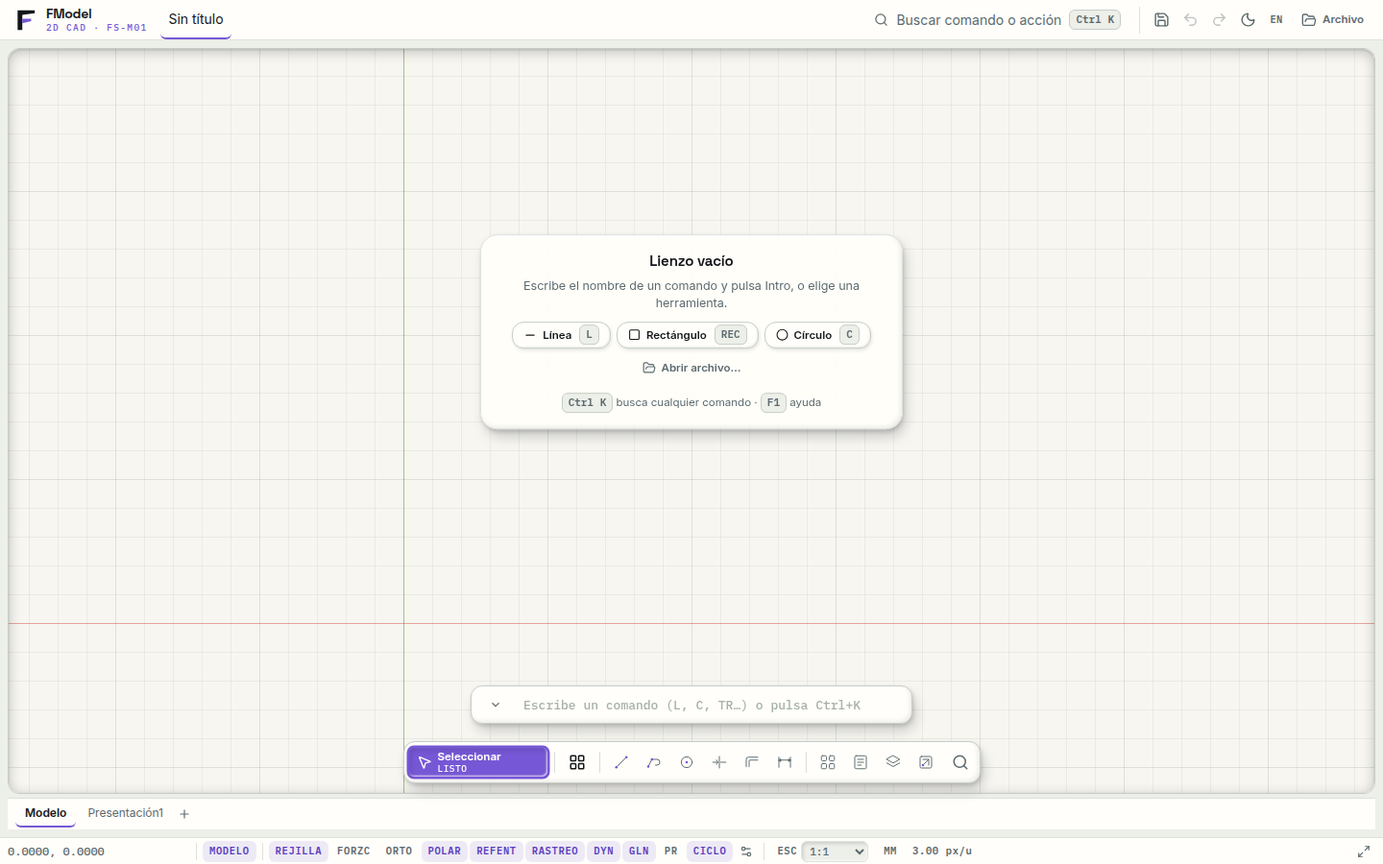
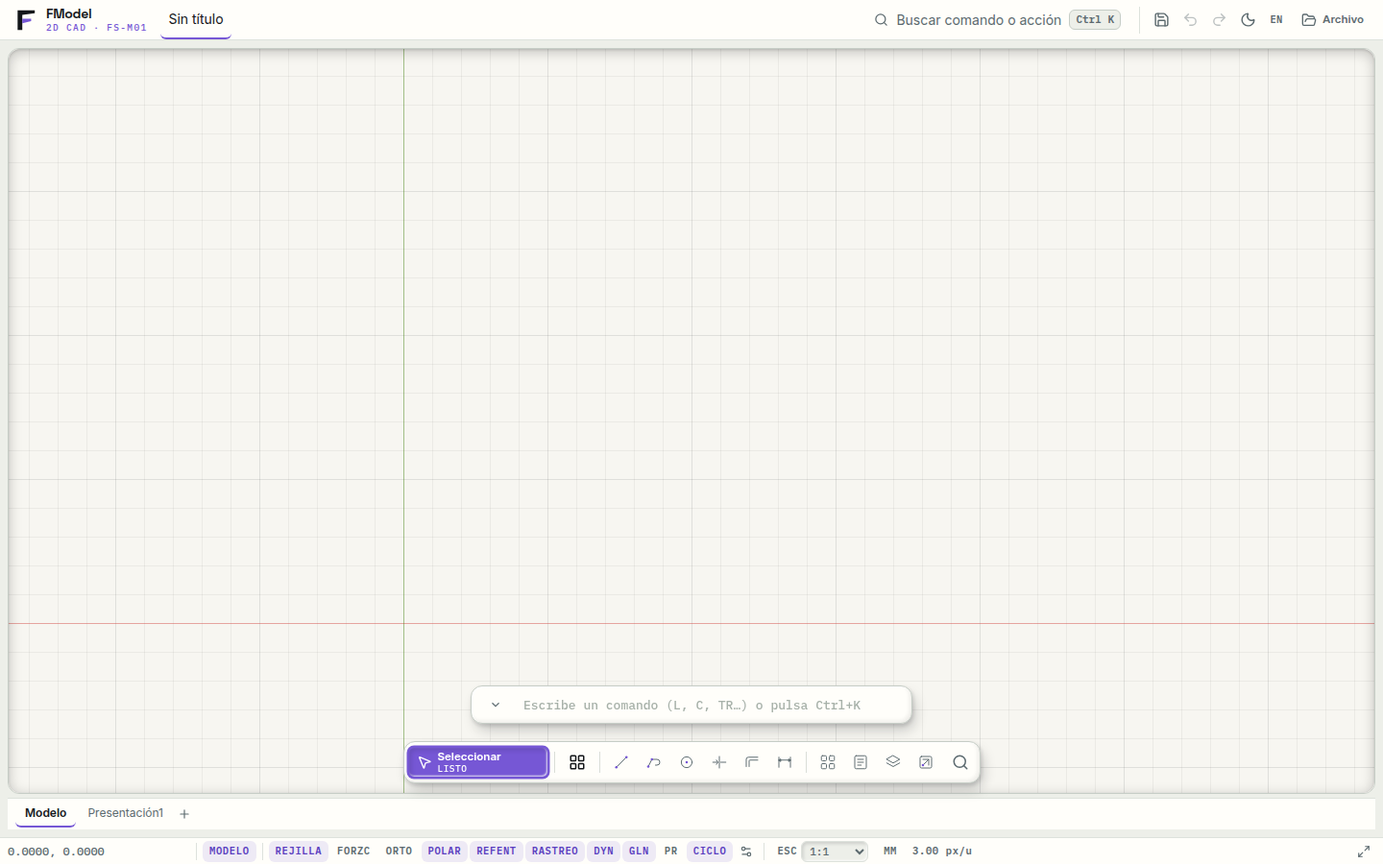
feat(ui): retirar la tarjeta «Lienzo vacío» de la mesa (UI-008)
La tarjeta tapaba el centro del lienzo y estorbaba, sobre todo en el
teléfono. Se elimina EmptyCanvasHint, sus estilos y las pruebas que
dependían de ella; capturas del brandbook regeneradas.

Claude-Session: https://claude.ai/code/session_01GeibqF8v8jU8AmHyVxC3aG

Changed region(s): [[0.3438, 0.28, 0.6562, 0.5289]]

diff --git a/docs/brandbook/index.html b/docs/brandbook/index.html
@@ -103,7 +103,7 @@ body{background:#EDEFE9}
 <span style="font-family: 'IBM Plex Mono', monospace; font-size: 11px; letter-spacing: .14em; text-transform: uppercase; color: #5C6A6F">05 / 7 · Interfaces</span></div>
 <h1 style="margin: 0; font-family: 'Space Grotesk', sans-serif; font-weight: 600; font-size: 64px; line-height: 1; letter-spacing: -.035em">Las mesas, tal como son</h1>
 <p style="margin: 0; max-width: 920px; font-size: 19px; line-height: 1.55; color: #3F4A50">Capturas de klkmoraa.github.io/FModel en Día y Noche, en escritorio, teléfono y tableta.</p>
-</header><section style="display: flex; flex-direction: column; gap: 16px"><div style="display: flex; align-items: baseline; gap: 16px"><span style="font-family: 'IBM Plex Mono', monospace; font-size: 11px; letter-spacing: .14em; text-transform: uppercase; color: #5C6A6F">Inicio</span><h2 style="margin: 0; font-family: 'Space Grotesk', sans-serif; font-weight: 600; font-size: 30px; letter-spacing: -.02em">Barra de navegación</h2></div><div style="display: grid; grid-template-columns: repeat(2, minmax(0, 1fr)); gap: 20px"><figure style="margin: 0; display: flex; flex-direction: column; gap: 8px"><img src="assets/home-dia.png" alt="Barra de navegación · Día" style="display: block; width: 100%; height: 170px; object-fit: cover; object-position: top; border-radius: 12px; box-shadow: 0 0 0 1px #C6CDC6, 2px 6px 16px -4px rgb(20 23 26 / 22%)"><figcaption style="font-family: 'IBM Plex Mono', monospace; font-size: 11px; letter-spacing: .12em; text-transform: uppercase; color: #5C6A6F">Día</figcaption></figure><figure style="margin: 0; display: flex; flex-direction: column; gap: 8px"><img src="assets/home-noche.png" alt="Barra de navegación · Noche" style="display: block; width: 100%; height: 170px; object-fit: cover; object-position: top; border-radius: 12px; box-shadow: 0 0 0 1px #C6CDC6, 2px 6px 16px -4px rgb(20 23 26 / 22%)"><figcaption style="font-family: 'IBM Plex Mono', monospace; font-size: 11px; letter-spacing: .12em; text-transform: uppercase; color: #5C6A6F">Noche</figcaption></figure></div><ul style="margin: 0; padding-left: 18px; display: grid; grid-template-columns: repeat(2, minmax(0, 1fr)); gap: 6px 40px; color: #3F4A50"><li style="font-size: 14px; line-height: 1.5">Marca + «FModel 2D CAD» en mono morado.</li><li style="font-size: 14px; line-height: 1.5">Navegación en píldora: Inicio, Dibujos, Plantillas, Biblioteca, Importar.</li><li style="font-size: 14px; line-height: 1.5">Búsqueda con atajo «/»; tema, idioma y primaria «Abrir lienzo».</li><li style="font-size: 14px; line-height: 1.5">Capturas regeneradas con el Inicio ya pintado (UI-005): la espera es la carga de la plantilla destacada.</li></ul></section><section style="display: flex; flex-direction: column; gap: 16px"><div style="display: flex; align-items: baseline; gap: 16px"><span style="font-family: 'IBM Plex Mono', monospace; font-size: 11px; letter-spacing: .14em; text-transform: uppercase; color: #5C6A6F">FS-M01</span><h2 style="margin: 0; font-family: 'Space Grotesk', sans-serif; font-weight: 600; font-size: 30px; letter-spacing: -.02em">Mesa de dibujo</h2></div><div style="display: grid; grid-template-columns: repeat(2, minmax(0, 1fr)); gap: 20px"><figure style="margin: 0; display: flex; flex-direction: column; gap: 8px"><img src="assets/mesa-dia.png" alt="Mesa de dibujo · Día" style="display: block; width: 100%; aspect-ratio: 1440 / 900; border-radius: 12px; box-shadow: 0 0 0 1px #C6CDC6, 2px 6px 16px -4px rgb(20 23 26 / 22%)"><figcaption style="font-family: 'IBM Plex Mono', monospace; font-size: 11px; letter-spacing: .12em; text-transform: uppercase; color: #5C6A6F">Día</figcaption></figure><figure style="margin: 0; display: flex; flex-direction: column; gap: 8px"><img src="assets/mesa-noche.png" alt="Mesa de dibujo · Noche" style="display: block; width: 100%; aspect-ratio: 1440 / 900; border-radius: 12px; box-shadow: 0 0 0 1px #C6CDC6, 2px 6px 16px -4px rgb(20 23 26 / 22%)"><figcaption style="font-family: 'IBM Plex Mono', monospace; font-size: 11px; letter-spacing: .12em; text-transform: uppercase; color: #5C6A6F">Noche</figcaption></figure></div><ul style="margin: 0; padding-left: 18px; display: grid; grid-template-columns: repeat(2, minmax(0, 1fr)); gap: 6px 40px; color: #3F4A50"><li style="font-size: 14px; line-height: 1.5">Barra superior plana: marca, pestaña del dibujo subrayada en morado, búsqueda Ctrl K, guardar, deshacer, rehacer, tema, idioma (muestra el destino) y Archivo.</li><li style="font-size: 14px; line-height: 1.5">Lienzo enmarcado con rejilla y ejes; línea de comando flotante sobre la barra de herramientas. Con el lienzo vacío, una tarjeta explica cómo empezar y desaparece con el primer objeto.</li><li style="font-size: 14px; line-height: 1.5">Barra flotante: Seleccionar (LISTO) + dibujo, edición, anotación, capas y búsqueda.</li><li style="font-size: 14px; line-height: 1.5">Pestañas Modelo / Presentación y barra de estado con modos tipo CAD.</li></ul></section><section style="display: flex; flex-direction: column; gap: 16px"><div style="display: flex; align-items: baseline; gap: 16px"><span style="font-family: 'IBM Plex Mono', monospace; font-size: 11px; letter-spacing: .14em; text-transform: uppercase; color: #5C6A6F">UI-006</span><h2 style="margin: 0; font-family: 'Space Grotesk', sans-serif; font-weight: 600; font-size: 30px; letter-spacing: -.02em">Teléfono y tableta</h2></div><div style="display: flex; gap: 28px; align-items: flex-start"><figure style="margin: 0; display: flex; flex-direction: column; gap: 8px; align-items: flex-start"><img src="assets/movil-dia.png" alt="Teléfono · Día · comando activo" style="display: block; height: 460px; width: auto; max-width: 100%; border-radius: 12px; box-shadow: 0 0 0 1px #C6CDC6, 2px 6px 16px -4px rgb(20 23 26 / 22%)"><figcaption style="font-family: 'IBM Plex Mono', monospace; font-size: 11px; letter-spacing: .12em; text-transform: uppercase; color: #5C6A6F">Teléfono · Día · comando</figcaption></figure><figure style="margin: 0; display: flex; flex-direction: column; gap: 8px; align-items: flex-start"><img src="assets/movil-noche.png" alt="Teléfono · Noche · selección" style="display: block; height: 460px; width: auto; max-width: 100%; border-radius: 12px; box-shadow: 0 0 0 1px #C6CDC6, 2px 6px 16px -4px rgb(20 23 26 / 22%)"><figcaption style="font-family: 'IBM Plex Mono', monospace; font-size: 11px; letter-spacing: .12em; text-transform: uppercase; color: #5C6A6F">Teléfono · Noche · selección</figcaption></figure><figure style="margin: 0; display: flex; flex-direction: column; gap: 8px; align-items: flex-start"><img src="assets/tableta-dia.png" alt="Tableta · Día · comando activo" style="display: block; height: 460px; width: auto; max-width: 100%; border-radius: 12px; box-shadow: 0 0 0 1px #C6CDC6, 2px 6px 16px -4px rgb(20 23 26 / 22%)"><figcaption style="font-family: 'IBM Plex Mono', monospace; font-size: 11px; letter-spacing: .12em; text-transform: uppercase; color: #5C6A6F">Tableta · Día</figcaption></figure></div><ul style="margin: 0; padding-left: 18px; display: grid; grid-template-columns: repeat(2, minmax(0, 1fr)); gap: 6px 40px; color: #3F4A50"><li style="font-size: 14px; line-height: 1.5">Teléfono (≤ 640 px o táctil de poca altura): la mesa de escritorio en pequeño. Lienzo a sangre, barra superior plana con guardar, deshacer, rehacer y menú «⋯».</li><li style="font-size: 14px; line-height: 1.5">Dock flotante de arcilla, el mismo material que en escritorio: herramientas, favoritos que se deslizan, precisión (con el número de modos activos) y paneles.</li><li style="font-size: 14px; line-height: 1.5">Con un comando activo, una tarjeta sobre el dock hace de línea de comando: orden, solicitud, opciones, coordenadas, Escribir, Cancelar y Aceptar (primario morado). Con selección, acciones rápidas.</li><li style="font-size: 14px; line-height: 1.5">Paneles, precisión, menú y biblioteca de herramientas son hojas inferiores con asidero, nombre y Cerrar. El teléfono se usa en vertical: girado, pide volver a vertical (UI-007); quien siga en horizontal tiene tarjeta y dock lado a lado.</li><li style="font-size: 14px; line-height: 1.5">Tableta: la mesa de escritorio completa con objetivos de 42 px, zoom táctil a la izquierda y Aceptar junto a Cancelar en el dock.</li><li style="font-size: 14px; line-height: 1.5">Los modos de la barra de estado y de la hoja de precisión salen de una sola lista (src/ui/precisionModes.ts): mismas siglas, descripciones y atajos.</li></ul></section><section style="display: flex; flex-direction: column; gap: 16px"><div style="display: flex; align-items: baseline; gap: 16px"><span style="font-family: 'IBM Plex Mono', monospace; font-size: 11px; letter-spacing: .14em; text-transform: uppercase; color: #5C6A6F">Consistencia</span><h2 style="margin: 0; font-family: 'Space Grotesk', sans-serif; font-weight: 600; font-size: 30px; letter-spacing: -.02em">Qué revisar</h2></div><div style="display: flex; flex-direction: column; border: 1px solid #DDE2DC; border-radius: 6px; background: #FFFEFA"><div style="display: grid; grid-template-columns: 180px minmax(0, 1fr) minmax(0, 1fr); gap: 20px; padding: 12px 18px; border-bottom: 1px solid #DDE2DC; font-family: 'IBM Plex Mono', monospace; font-size: 10.5px; letter-spacing: .12em; text-transform: uppercase; color: #5C6A6F"><span>Tema</span><span>Hoy</span><span>Regla</span></div><div style="display: grid; grid-template-columns: 180px minmax(0, 1fr) minmax(0, 1fr); gap: 20px; padding: 12px 18px; border-bottom: 1px solid #EDEFE9; font-size: 14px; line-height: 1.45"><strong style="font-weight: 600">Cinta</strong><span style="color: #5C6A6F">Token de 92 px retirado: la mesa no tiene cinta</span><span>Si vuelve, entra al sistema con su medida.</span></div><div style="display: grid; grid-template-columns: 180px minmax(0, 1fr) minmax(0, 1fr); gap: 20px; padding: 12px 18px; border-bottom: 1px solid #EDEFE9; font-size: 14px; line-height: 1.45"><strong style="font-weight: 600">Primaria</strong><span style="color: #5C6A6F">Inicio y diálogos («Abrir lienzo», «Listo», «Siguiente»)</span><span>Correcto: la mesa CAD se maneja con comandos; el morado marca la acción principal de cada superficie.</span></div><div style="display: grid; grid-template-columns: 180px minmax(0, 1fr) minmax(0, 1fr); gap: 20px; padding: 12px 18px; border-bottom: 1px solid #EDEFE9; font-size: 14px; line-height: 1.45"><strong style="font-weight: 600">Modos activos</strong><span style="color: #5C6A6F">Fondo morado 14 % + texto morado</span><span>Mismo patrón que los filtros activos del global.</span></div><div style="display: grid; grid-template-columns: 180px minmax(0, 1fr) minmax(0, 1fr); gap: 20px; padding: 12px 18px; border-bottom: 1px solid #EDEFE9; font-size: 14px; line-height: 1.45"><strong style="font-weight: 600">Bienvenida</strong><span style="color: #5C6A6F">Diálogo de 5 pasos al abrir la mesa</span><span>Corregido (UI-004): «Siguiente» es primario morado y «Omitir» es fantasma.</span></div><div style="display: grid; grid-template-columns: 180px minmax(0, 1fr) minmax(0, 1fr); gap: 20px; padding: 12px 18px; border-bottom: 1px solid #EDEFE9; font-size: 14px; line-height: 1.45"><strong style="font-weight: 600">Botones</strong><span style="color: #5C6A6F">Planos; el primario era negro (UI-004)</span><span>Secundario elevado, primario morado, peligro con canto y punto rojos, fantasma sólo en barras densas.</span></div><div style="display: grid; grid-template-columns: 180px minmax(0, 1fr) minmax(0, 1fr); gap: 20px; padding: 12px 18px; border-bottom: 1px solid #EDEFE9; font-size: 14px; line-height: 1.45"><strong style="font-weight: 600">Campos y segmentado</strong><span style="color: #5C6A6F">Planos; pestañas con btn--accent (UI-004)</span><span>Campo hundido con anillo morado al enfocar; segmentado con pista hundida y opción activa elevada.</span></div></div></section>
+</header><section style="display: flex; flex-direction: column; gap: 16px"><div style="display: flex; align-items: baseline; gap: 16px"><span style="font-family: 'IBM Plex Mono', monospace; font-size: 11px; letter-spacing: .14em; text-transform: uppercase; color: #5C6A6F">Inicio</span><h2 style="margin: 0; font-family: 'Space Grotesk', sans-serif; font-weight: 600; font-size: 30px; letter-spacing: -.02em">Barra de navegación</h2></div><div style="display: grid; grid-template-columns: repeat(2, minmax(0, 1fr)); gap: 20px"><figure style="margin: 0; display: flex; flex-direction: column; gap: 8px"><img src="assets/home-dia.png" alt="Barra de navegación · Día" style="display: block; width: 100%; height: 170px; object-fit: cover; object-position: top; border-radius: 12px; box-shadow: 0 0 0 1px #C6CDC6, 2px 6px 16px -4px rgb(20 23 26 / 22%)"><figcaption style="font-family: 'IBM Plex Mono', monospace; font-size: 11px; letter-spacing: .12em; text-transform: uppercase; color: #5C6A6F">Día</figcaption></figure><figure style="margin: 0; display: flex; flex-direction: column; gap: 8px"><img src="assets/home-noche.png" alt="Barra de navegación · Noche" style="display: block; width: 100%; height: 170px; object-fit: cover; object-position: top; border-radius: 12px; box-shadow: 0 0 0 1px #C6CDC6, 2px 6px 16px -4px rgb(20 23 26 / 22%)"><figcaption style="font-family: 'IBM Plex Mono', monospace; font-size: 11px; letter-spacing: .12em; text-transform: uppercase; color: #5C6A6F">Noche</figcaption></figure></div><ul style="margin: 0; padding-left: 18px; display: grid; grid-template-columns: repeat(2, minmax(0, 1fr)); gap: 6px 40px; color: #3F4A50"><li style="font-size: 14px; line-height: 1.5">Marca + «FModel 2D CAD» en mono morado.</li><li style="font-size: 14px; line-height: 1.5">Navegación en píldora: Inicio, Dibujos, Plantillas, Biblioteca, Importar.</li><li style="font-size: 14px; line-height: 1.5">Búsqueda con atajo «/»; tema, idioma y primaria «Abrir lienzo».</li><li style="font-size: 14px; line-height: 1.5">Capturas regeneradas con el Inicio ya pintado (UI-005): la espera es la carga de la plantilla destacada.</li></ul></section><section style="display: flex; flex-direction: column; gap: 16px"><div style="display: flex; align-items: baseline; gap: 16px"><span style="font-family: 'IBM Plex Mono', monospace; font-size: 11px; letter-spacing: .14em; text-transform: uppercase; color: #5C6A6F">FS-M01</span><h2 style="margin: 0; font-family: 'Space Grotesk', sans-serif; font-weight: 600; font-size: 30px; letter-spacing: -.02em">Mesa de dibujo</h2></div><div style="display: grid; grid-template-columns: repeat(2, minmax(0, 1fr)); gap: 20px"><figure style="margin: 0; display: flex; flex-direction: column; gap: 8px"><img src="assets/mesa-dia.png" alt="Mesa de dibujo · Día" style="display: block; width: 100%; aspect-ratio: 1440 / 900; border-radius: 12px; box-shadow: 0 0 0 1px #C6CDC6, 2px 6px 16px -4px rgb(20 23 26 / 22%)"><figcaption style="font-family: 'IBM Plex Mono', monospace; font-size: 11px; letter-spacing: .12em; text-transform: uppercase; color: #5C6A6F">Día</figcaption></figure><figure style="margin: 0; display: flex; flex-direction: column; gap: 8px"><img src="assets/mesa-noche.png" alt="Mesa de dibujo · Noche" style="display: block; width: 100%; aspect-ratio: 1440 / 900; border-radius: 12px; box-shadow: 0 0 0 1px #C6CDC6, 2px 6px 16px -4px rgb(20 23 26 / 22%)"><figcaption style="font-family: 'IBM Plex Mono', monospace; font-size: 11px; letter-spacing: .12em; text-transform: uppercase; color: #5C6A6F">Noche</figcaption></figure></div><ul style="margin: 0; padding-left: 18px; display: grid; grid-template-columns: repeat(2, minmax(0, 1fr)); gap: 6px 40px; color: #3F4A50"><li style="font-size: 14px; line-height: 1.5">Barra superior plana: marca, pestaña del dibujo subrayada en morado, búsqueda Ctrl K, guardar, deshacer, rehacer, tema, idioma (muestra el destino) y Archivo.</li><li style="font-size: 14px; line-height: 1.5">Lienzo enmarcado con rejilla y ejes; línea de comando flotante sobre la barra de herramientas.</li><li style="font-size: 14px; line-height: 1.5">Barra flotante: Seleccionar (LISTO) + dibujo, edición, anotación, capas y búsqueda.</li><li style="font-size: 14px; line-height: 1.5">Pestañas Modelo / Presentación y barra de estado con modos tipo CAD.</li></ul></section><section style="display: flex; flex-direction: column; gap: 16px"><div style="display: flex; align-items: baseline; gap: 16px"><span style="font-family: 'IBM Plex Mono', monospace; font-size: 11px; letter-spacing: .14em; text-transform: uppercase; color: #5C6A6F">UI-006</span><h2 style="margin: 0; font-family: 'Space Grotesk', sans-serif; font-weight: 600; font-size: 30px; letter-spacing: -.02em">Teléfono y tableta</h2></div><div style="display: flex; gap: 28px; align-items: flex-start"><figure style="margin: 0; display: flex; flex-direction: column; gap: 8px; align-items: flex-start"><img src="assets/movil-dia.png" alt="Teléfono · Día · comando activo" style="display: block; height: 460px; width: auto; max-width: 100%; border-radius: 12px; box-shadow: 0 0 0 1px #C6CDC6, 2px 6px 16px -4px rgb(20 23 26 / 22%)"><figcaption style="font-family: 'IBM Plex Mono', monospace; font-size: 11px; letter-spacing: .12em; text-transform: uppercase; color: #5C6A6F">Teléfono · Día · comando</figcaption></figure><figure style="margin: 0; display: flex; flex-direction: column; gap: 8px; align-items: flex-start"><img src="assets/movil-noche.png" alt="Teléfono · Noche · selección" style="display: block; height: 460px; width: auto; max-width: 100%; border-radius: 12px; box-shadow: 0 0 0 1px #C6CDC6, 2px 6px 16px -4px rgb(20 23 26 / 22%)"><figcaption style="font-family: 'IBM Plex Mono', monospace; font-size: 11px; letter-spacing: .12em; text-transform: uppercase; color: #5C6A6F">Teléfono · Noche · selección</figcaption></figure><figure style="margin: 0; display: flex; flex-direction: column; gap: 8px; align-items: flex-start"><img src="assets/tableta-dia.png" alt="Tableta · Día · comando activo" style="display: block; height: 460px; width: auto; max-width: 100%; border-radius: 12px; box-shadow: 0 0 0 1px #C6CDC6, 2px 6px 16px -4px rgb(20 23 26 / 22%)"><figcaption style="font-family: 'IBM Plex Mono', monospace; font-size: 11px; letter-spacing: .12em; text-transform: uppercase; color: #5C6A6F">Tableta · Día</figcaption></figure></div><ul style="margin: 0; padding-left: 18px; display: grid; grid-template-columns: repeat(2, minmax(0, 1fr)); gap: 6px 40px; color: #3F4A50"><li style="font-size: 14px; line-height: 1.5">Teléfono (≤ 640 px o táctil de poca altura): la mesa de escritorio en pequeño. Lienzo a sangre, barra superior plana con guardar, deshacer, rehacer y menú «⋯».</li><li style="font-size: 14px; line-height: 1.5">Dock flotante de arcilla, el mismo material que en escritorio: herramientas, favoritos que se deslizan, precisión (con el número de modos activos) y paneles.</li><li style="font-size: 14px; line-height: 1.5">Con un comando activo, una tarjeta sobre el dock hace de línea de comando: orden, solicitud, opciones, coordenadas, Escribir, Cancelar y Aceptar (primario morado). Con selección, acciones rápidas.</li><li style="font-size: 14px; line-height: 1.5">Paneles, precisión, menú y biblioteca de herramientas son hojas inferiores con asidero, nombre y Cerrar. El teléfono se usa en vertical: girado, pide volver a vertical (UI-007); quien siga en horizontal tiene tarjeta y dock lado a lado.</li><li style="font-size: 14px; line-height: 1.5">Tableta: la mesa de escritorio completa con objetivos de 42 px, zoom táctil a la izquierda y Aceptar junto a Cancelar en el dock.</li><li style="font-size: 14px; line-height: 1.5">Los modos de la barra de estado y de la hoja de precisión salen de una sola lista (src/ui/precisionModes.ts): mismas siglas, descripciones y atajos.</li></ul></section><section style="display: flex; flex-direction: column; gap: 16px"><div style="display: flex; align-items: baseline; gap: 16px"><span style="font-family: 'IBM Plex Mono', monospace; font-size: 11px; letter-spacing: .14em; text-transform: uppercase; color: #5C6A6F">Consistencia</span><h2 style="margin: 0; font-family: 'Space Grotesk', sans-serif; font-weight: 600; font-size: 30px; letter-spacing: -.02em">Qué revisar</h2></div><div style="display: flex; flex-direction: column; border: 1px solid #DDE2DC; border-radius: 6px; background: #FFFEFA"><div style="display: grid; grid-template-columns: 180px minmax(0, 1fr) minmax(0, 1fr); gap: 20px; padding: 12px 18px; border-bottom: 1px solid #DDE2DC; font-family: 'IBM Plex Mono', monospace; font-size: 10.5px; letter-spacing: .12em; text-transform: uppercase; color: #5C6A6F"><span>Tema</span><span>Hoy</span><span>Regla</span></div><div style="display: grid; grid-template-columns: 180px minmax(0, 1fr) minmax(0, 1fr); gap: 20px; padding: 12px 18px; border-bottom: 1px solid #EDEFE9; font-size: 14px; line-height: 1.45"><strong style="font-weight: 600">Cinta</strong><span style="color: #5C6A6F">Token de 92 px retirado: la mesa no tiene cinta</span><span>Si vuelve, entra al sistema con su medida.</span></div><div style="display: grid; grid-template-columns: 180px minmax(0, 1fr) minmax(0, 1fr); gap: 20px; padding: 12px 18px; border-bottom: 1px solid #EDEFE9; font-size: 14px; line-height: 1.45"><strong style="font-weight: 600">Primaria</strong><span style="color: #5C6A6F">Inicio y diálogos («Abrir lienzo», «Listo», «Siguiente»)</span><span>Correcto: la mesa CAD se maneja con comandos; el morado marca la acción principal de cada superficie.</span></div><div style="display: grid; grid-template-columns: 180px minmax(0, 1fr) minmax(0, 1fr); gap: 20px; padding: 12px 18px; border-bottom: 1px solid #EDEFE9; font-size: 14px; line-height: 1.45"><strong style="font-weight: 600">Modos activos</strong><span style="color: #5C6A6F">Fondo morado 14 % + texto morado</span><span>Mismo patrón que los filtros activos del global.</span></div><div style="display: grid; grid-template-columns: 180px minmax(0, 1fr) minmax(0, 1fr); gap: 20px; padding: 12px 18px; border-bottom: 1px solid #EDEFE9; font-size: 14px; line-height: 1.45"><strong style="font-weight: 600">Bienvenida</strong><span style="color: #5C6A6F">Diálogo de 5 pasos al abrir la mesa</span><span>Corregido (UI-004): «Siguiente» es primario morado y «Omitir» es fantasma.</span></div><div style="display: grid; grid-template-columns: 180px minmax(0, 1fr) minmax(0, 1fr); gap: 20px; padding: 12px 18px; border-bottom: 1px solid #EDEFE9; font-size: 14px; line-height: 1.45"><strong style="font-weight: 600">Botones</strong><span style="color: #5C6A6F">Planos; el primario era negro (UI-004)</span><span>Secundario elevado, primario morado, peligro con canto y punto rojos, fantasma sólo en barras densas.</span></div><div style="display: grid; grid-template-columns: 180px minmax(0, 1fr) minmax(0, 1fr); gap: 20px; padding: 12px 18px; border-bottom: 1px solid #EDEFE9; font-size: 14px; line-height: 1.45"><strong style="font-weight: 600">Campos y segmentado</strong><span style="color: #5C6A6F">Planos; pestañas con btn--accent (UI-004)</span><span>Campo hundido con anillo morado al enfocar; segmentado con pista hundida y opción activa elevada.</span></div></div></section>
 </div>
 </section>
 <section class="board" id="herramientas" aria-label="Herramientas">

diff --git a/src/styles/app.css b/src/styles/app.css
@@ -647,58 +647,6 @@ kbd {
   opacity: 0;
 }
 
-/* pista de lienzo vacío: centrada, sobre el papel; deja pasar el puntero fuera de la tarjeta */
-.canvas-hint {
-  position: absolute;
-  top: 38%;
-  left: 50%;
-  z-index: 4;
-  display: flex;
-  flex-direction: column;
-  align-items: center;
-  gap: 8px;
-  width: min(440px, calc(100% - 32px));
-  padding: 18px 20px 16px;
-  border: 1px solid var(--line-soft);
-  border-radius: var(--radius-md);
-  background: color-mix(in srgb, var(--surface) 92%, transparent);
-  box-shadow: var(--shadow-float);
-  backdrop-filter: blur(6px);
-  -webkit-backdrop-filter: blur(6px);
-  text-align: center;
-  transform: translate(-50%, -50%);
-  animation: fm-fade-in var(--fs-reveal) var(--fs-ease) both;
-}
-@keyframes fm-fade-in {
-  from {
-    opacity: 0;
-  }
-}
-.canvas-hint__title {
-  font: 650 15px/1.2 var(--fs-font-display);
-  letter-spacing: -0.01em;
-}
-.canvas-hint__text,
-.canvas-hint__keys {
-  margin: 0;
-  color: var(--ink-secondary);
-  font-size: 12.5px;
-  line-height: 1.45;
-}
-.canvas-hint__keys {
-  font-size: 11.5px;
-}
-.canvas-hint__actions {
-  display: flex;
-  flex-wrap: wrap;
-  justify-content: center;
-  gap: 6px;
-  margin: 2px 0 4px;
-}
-.canvas-hint__actions kbd {
-  margin-left: 2px;
-}
-
 /* --------------------------------------------------------------- precision deck */
 
 .precision-deck-shell {
@@ -2820,9 +2768,6 @@ table.grid tr.is-active td {
   top: 100%;
   bottom: auto;
   margin: 6px 0 0;
-}
-.app--phone .canvas-hint {
-  top: 36%;
 }
 
 /* zona inferior: tareas · tarjeta de comando o selección · dock */

diff --git a/e2e/brandbookVisual.spec.ts b/e2e/brandbookVisual.spec.ts
@@ -454,25 +454,6 @@ test.describe('alineación visual con FusionStructureBrand', () => {
     expect(await dialog.evaluate((element) => element.contains(document.activeElement))).toBe(true);
   });
 
-  test('el lienzo vacío explica cómo empezar y la pista desaparece con el primer objeto', async ({ page }) => {
-    await page.goto('/?surface=workspace');
-    await page.waitForFunction(() => !!(window as any).fmodel?.editor);
-    await page.evaluate(() => {
-      (window as any).fmodel.editor.setPrefs({ onboardingDone: true });
-    });
-    const hint = page.getByRole('region', { name: /Cómo empezar|Getting started/ });
-    await expect(hint).toBeVisible();
-    await expect(hint.getByRole('button', { name: /Línea|Line/ })).toBeVisible();
-
-    const input = page.getByLabel(/Línea de comandos|Command line/);
-    for (const value of ['LINE', '0,0', '100,100']) {
-      await input.fill(value);
-      await input.press('Enter');
-    }
-    await input.press('Enter');
-    await expect(hint).toHaveCount(0);
-  });
-
   test('el idioma de la barra superior muestra el destino del cambio, igual que el Inicio', async ({ page }) => {
     await page.goto('/?surface=workspace');
     await page.waitForFunction(() => !!(window as any).fmodel?.editor);

diff --git a/src/ui/App.tsx b/src/ui/App.tsx
@@ -1,7 +1,6 @@
 import { Ellipsis, FolderOpen, Monitor, Moon, Redo2, Save, Search, Sun, TriangleAlert, Undo2 } from 'lucide-react';
 import { QuickProperties } from './QuickProperties';
 import { Onboarding } from './Onboarding';
-import { EmptyCanvasHint } from './EmptyCanvasHint';
 import { comboOf } from './keys';
 import { useCallback, useEffect, useMemo, useRef, useState } from 'react';
 
@@ -346,7 +345,6 @@ export function App({ editor }: { editor: Editor }) {
             <CanvasView editor={editor} theme={theme} />
             <DynamicInput ref={dynRef} editor={editor} />
             <CommandLine ref={cmdRef} editor={editor} compact={isPhone} onDismiss={isPhone ? () => setCmdOpen(false) : undefined} />
-            {editor.prefs.onboardingDone && <EmptyCanvasHint editor={editor} touch={touch} />}
             <CyclingList editor={editor} />
             {!isPhone && <QuickProperties editor={editor} onMore={() => openUi('panel:properties')} />}
             {!isPhone && <PrecisionDeck editor={editor} open={deckOpen} onOpenChange={changeDeckOpen} onUi={openUi} onRun={runCommand} onOpenPalette={openPalette} activePanel={floatingPanel} touch={touch} />}

diff --git a/e2e/criticalJourneys.spec.ts b/e2e/criticalJourneys.spec.ts
@@ -234,8 +234,7 @@ test.describe('Recorridos críticos E2E en navegador real (TST-001)', () => {
 
     for (const theme of ['dia', 'noche'] as const) {
       await page.evaluate((value) => (window as any).fmodel.editor.setPrefs({ theme: value }), theme);
-      // lienzo vacío: pista de inicio, barra superior y barra de estado
-      expect(await serious('.canvas-hint')).toEqual([]);
+      // barra superior y barra de estado
       expect(await serious('.topbar')).toEqual([]);
       expect(await serious('.statusbar')).toEqual([]);
 

diff --git a/fix/features/04-interfaz-accesibilidad.md b/fix/features/04-interfaz-accesibilidad.md
@@ -143,7 +143,7 @@
 5. **Biblioteca de herramientas**: la fila de pestañas ya no se recorta; la hoja móvil abre en «Inicio» en lugar de la primera familia.
 6. **Paleta de comandos**: la opción activa por teclado siempre queda a la vista, atrapa el foco y lo devuelve, oculta comandos internos (`_GRIP`…), muestra ayuda de teclas y favoritos con estrella de 28 px.
 7. **Diálogos**: el foco inicial va al contenido y no a «Cerrar»; las confirmaciones destructivas empiezan en «Cancelar»; etiquetas de campo hasta dos líneas (antes truncadas); tablas de Ayuda e informes sin desbordar; `src/ui/fieldLabels.ts` vincula etiquetas y controles sin nombre (Opciones tenía selects y casillas anónimos).
-8. **Lienzo vacío** (`EmptyCanvasHint.tsx`): tarjeta con atajos de dibujo, «Abrir archivo…» y pistas de teclado; desaparece con el primer objeto o un comando en curso.
+8. **Lienzo vacío** (`EmptyCanvasHint.tsx`): tarjeta con atajos de dibujo, «Abrir archivo…» y pistas de teclado; desaparece con el primer objeto o un comando en curso. *Retirada en UI-008.*
 9. **Menú Archivo**: borrar un dibujo guardado usa un icono con nombre en lugar de «×».
 
 **Criterios de aceptación:**
@@ -224,3 +224,18 @@
 
 **Verificación:** `e2e/touchLayouts.spec.ts` añade «propone girar a vertical sin imponerlo y recuerda la elección en la sesión» y «la tableta apaisada no recibe el aviso». La prueba de horizontal descarta antes el aviso. Puertas: `pnpm verify` y `playwright test` en Chromium.
 
+## UI-008 — Retirar la tarjeta «Lienzo vacío» de la mesa
+
+- [x] **Estado:** Cerrada
+- **Prioridad:** P3 — petición de uso: la tarjeta tapaba el centro del lienzo y estorbaba, sobre todo en el teléfono
+- **Responsable:** Claude · **Inicio:** 2026-10-01 · **Cierre:** 2026-10-01
+- **Depende de:** UI-005
+
+**Evidencia:** se elimina `src/ui/EmptyCanvasHint.tsx`, su montaje en `App.tsx` y los estilos `.canvas-hint`. El lienzo vacío queda despejado en escritorio, tableta y teléfono; el dock, la paleta de comandos y la bienvenida siguen explicando cómo empezar.
+
+**Criterios de aceptación:**
+
+- [x] Ninguna tarjeta aparece sobre el lienzo vacío.
+- [x] Las pruebas e2e dejan de depender de la tarjeta; capturas del brandbook regeneradas.
+
+**Verificación:** `pnpm verify` y `playwright test` en Chromium.

diff --git a/fix/features/README.md b/fix/features/README.md
@@ -62,6 +62,7 @@
 | 36 | UI-005 | P2 | Mejorar la experiencia de uso sección por sección | Cerrada | UI-004 | [Interfaz](./04-interfaz-accesibilidad.md#ui-005--mejorar-la-experiencia-de-uso-sección-por-sección) |
 | 37 | UI-006 | P2 | Unificar la mesa en teléfono y tableta con la de escritorio | Cerrada | UI-004, UI-005 | [Interfaz](./04-interfaz-accesibilidad.md#ui-006--unificar-la-mesa-en-teléfono-y-tableta-con-la-de-escritorio) |
 | 38 | UI-007 | P2 | Priorizar el uso vertical del teléfono | Cerrada | UI-006 | [Interfaz](./04-interfaz-accesibilidad.md#ui-007--priorizar-el-uso-vertical-del-teléfono) |
+| 39 | UI-008 | P3 | Retirar la tarjeta «Lienzo vacío» de la mesa | Cerrada | UI-005 | [Interfaz](./04-interfaz-accesibilidad.md#ui-008--retirar-la-tarjeta-lienzo-vacío-de-la-mesa) |
 
 ## Mapa de dependencias
 

diff --git a/docs/brandbook/README.md b/docs/brandbook/README.md
@@ -5,7 +5,7 @@ Abre `index.html` en el navegador: siete fichas (sistema, logos, Día y Noche,
 componentes reales, interfaces, herramientas y auditoría).
 
 - `logos/`: marca de FModel — la ménsula con la franja en el color de su familia (Día, Noche e icono de app).
-- `assets/`: capturas de la app en Día y Noche (mesa con la pista de lienzo vacío, Inicio ya pintado, teléfono y tableta; se regeneran cuando cambia la interfaz).
+- `assets/`: capturas de la app en Día y Noche (mesa, Inicio ya pintado, teléfono y tableta; se regeneran cuando cambia la interfaz).
 - Lienzo editable (Claude Design): https://claude.ai/artifact/65qLu26K96pfCTxiMG1yu7
 
 El código manda: si `src/` y este documento discrepan, se corrige el documento.
